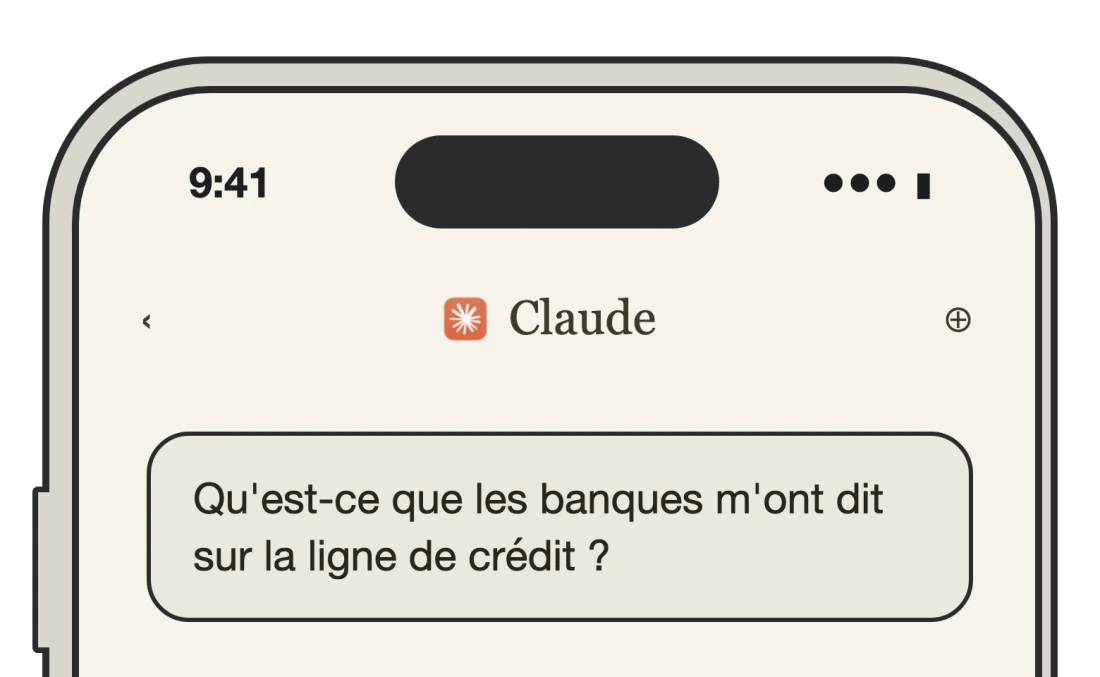
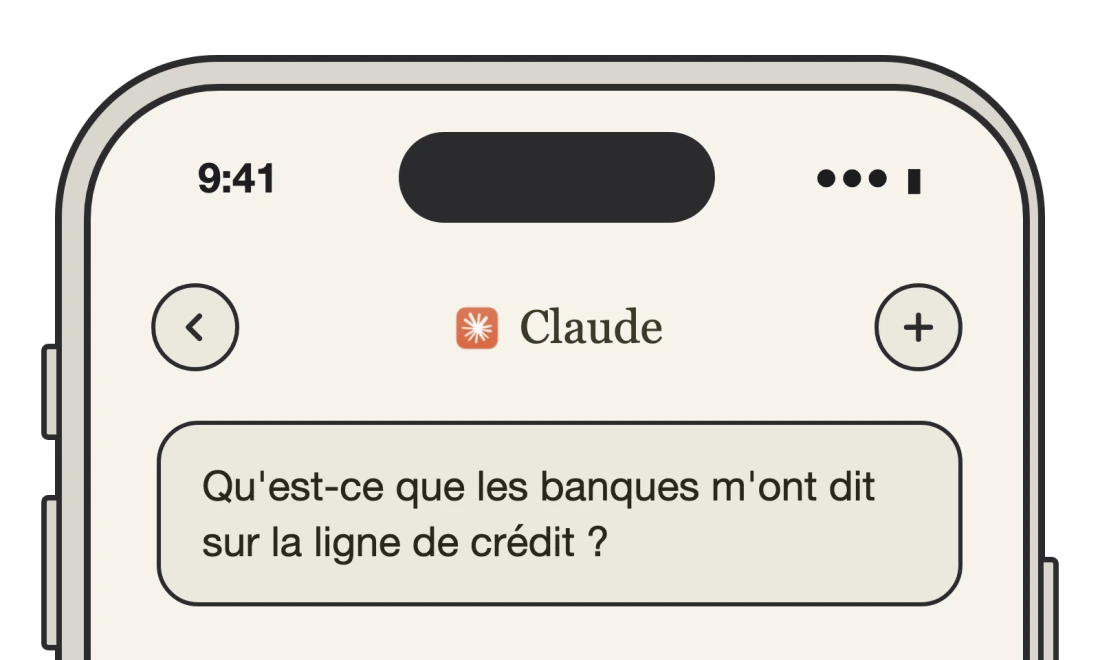
Site : téléphone Claude, boutons latéraux à l'échelle et boutons de l'écran redessinés

diff --git a/index.html b/index.html
@@ -155,7 +155,7 @@
     <ul class="benefits">
         <li class="o-jack text-right"><div><span>Une seule installation, puis plus rien à régler</span><p>Une ligne à copier, deux autorisations, et c'est tout. Ensuite, il démarre avec votre Mac et se fait oublier.</p></div><img src="img/benefices/jack.webp" width="1200" height="236" loading="lazy" alt="Une fiche jack dessinée, qui entre par la gauche et pointe vers le texte."></li>
         <li class="o-micro"><div><span>Vous parlez, tout est conservé, aucun lien à cliquer</span><p>Zoom, Teams, Meet, FaceTime, WhatsApp, votre téléphone, vos réunions et vos notes vocales&nbsp;: tout est enregistré dès que ça commence, et transcrit dès que ça se termine.</p></div><img src="img/benefices/micro.webp" width="1200" height="851" loading="lazy" alt="Un micro de radio dessiné, au design épuré, sur son bras articulé aux molettes moletées."></li>
-        <li class="o-telephone text-right"><div><span>Raccrochez&nbsp;: votre assistant est déjà au courant</span><p>Demandez ce qui a été promis, décidé ou oublié&nbsp;: Claude, Codex et les autres assistants lisent vos appels et vous répondent, citations à l'appui. Rien à copier-coller.</p></div><img src="img/benefices/telephone.webp" width="1100" height="677" loading="lazy" alt="Le haut d'un téléphone dessiné, ouvert sur Claude, une question en cours."></li>
+        <li class="o-telephone text-right"><div><span>Raccrochez&nbsp;: votre assistant est déjà au courant</span><p>Demandez ce qui a été promis, décidé ou oublié&nbsp;: Claude, Codex et les autres assistants lisent vos appels et vous répondent, citations à l'appui. Rien à copier-coller.</p></div><img src="img/benefices/telephone.webp" width="1100" height="660" loading="lazy" alt="Le haut d'un téléphone dessiné, ouvert sur Claude, une question en cours."></li>
         <li class="o-ordinateur"><div><span>L'audio ne quitte jamais votre Mac</span><p>La transcription se fait sur place, sans compte ni serveur. Votre assistant ne lit que ce dont il a besoin pour vous répondre.</p></div><img src="img/benefices/ordinateur.webp" width="1200" height="789" loading="lazy" alt="Un ordinateur des années 80 dessiné, une liste d'appels à l'écran."></li>
     </ul>
     <p class="more"><a href="fonctionnalites/">Toutes les fonctionnalités</a></p>
